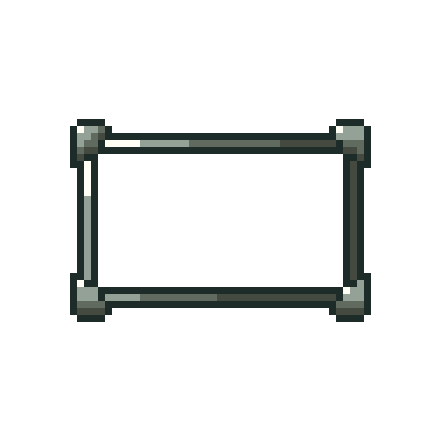
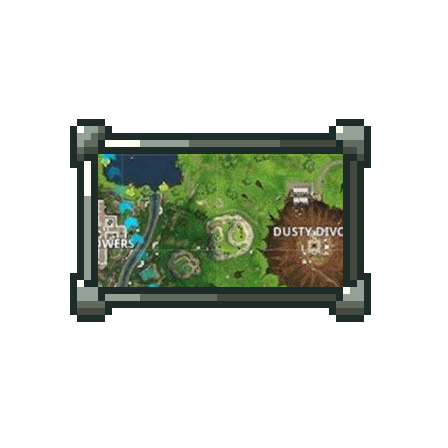
añadidos sprites/4

Changed region(s): [[0.2188, 0.3438, 0.7812, 0.6562]]

diff --git a/DSI-FinalProyect/GameWindows.xaml b/DSI-FinalProyect/GameWindows.xaml
@@ -32,16 +32,26 @@
                         <RowDefinition Height="1*"/>
                     </Grid.RowDefinitions>
                     <Grid.ColumnDefinitions>
-                        <ColumnDefinition Width="1*"/>
-                        <ColumnDefinition Width="3*"/>
+                        <ColumnDefinition Width="0.5*"/>
+                        <ColumnDefinition Width="0.5*"/>
+                        <ColumnDefinition Width="0.5*"/>
+                        <ColumnDefinition Width="0.5*"/>
+                        <ColumnDefinition Width="0.5*"/>
+                        <ColumnDefinition Width="0.5*"/>
                     </Grid.ColumnDefinitions>
 
-                    <Image Source="Assets/StoreLogo.png" Grid.Row="0" Width="100" Height="100" />
-                    <Image Source="Assets/StoreLogo.png" Grid.Row="2" Width="100" Height="100" />
+                    <Image Source="Assets/Interfaz_DSI/Heart.png" Grid.Row="0" Width="150" Height="150" HorizontalAlignment="Center" VerticalAlignment="Center" />
+                    <Image Source="Assets/Interfaz_DSI/Heart.png" Grid.Row="0" Grid.Column="1" Width="150" Height="150" HorizontalAlignment="Center" VerticalAlignment="Center" />
+                    <Image Source="Assets/Interfaz_DSI/Heart.png" Grid.Row="0" Grid.Column="2" Width="150" Height="150" HorizontalAlignment="Center" VerticalAlignment="Center" />
+                    <Image Source="Assets/Interfaz_DSI/Heart.png" Grid.Row="0" Grid.Column="3" Width="150" Height="150" HorizontalAlignment="Center" VerticalAlignment="Center" />
+                    <Image Source="Assets/Interfaz_DSI/Heart.png" Grid.Row="0" Grid.Column="4" Width="150" Height="150" HorizontalAlignment="Center" VerticalAlignment="Center" />
+                    <Image Source="Assets/Interfaz_DSI/Heart.png" Grid.Row="0" Grid.Column="5" Width="150" Height="150" HorizontalAlignment="Center" VerticalAlignment="Center" />
+
+                    <Image Source="Assets/Interfaz_DSI/Bullet.png" HorizontalAlignment="Center" VerticalAlignment="Center" Grid.Row="2" Width="150" Height="150" />
                     <TextBlock x:Name="nBalas" Grid.Row="3" Text="Balas" Foreground="White" HorizontalAlignment="Center" FontSize="30"/>
                 </Grid>
                 <!-- Grid Cruceta-->
-                    <Grid  x:Name="GridController" Margin="-50,30,0,50" Height="300" Width="300" VerticalAlignment="Bottom">
+                    <Grid  x:Name="GridController" Margin="-50,30,0,50" Height="300" Width="300" VerticalAlignment="Bottom" Visibility="Collapsed">
                         <Grid.RowDefinitions>
                             <RowDefinition Height="2*"/>
                             <RowDefinition Height="0.5*" />
@@ -80,15 +90,15 @@
 
 
                     </Grid>
-                    <!--Mapa-->
-                <Image Source="Assets/StoreLogo.png" x:Name="Map" Margin="50" HorizontalAlignment="Right" Grid.Column="2" VerticalAlignment="Top" Width="250" Height="250"/>
-                <Image Source="Assets/StoreLogo.png" x:Name="Frame" Margin="30" HorizontalAlignment="Right" Grid.Column="2" VerticalAlignment="Top" Width="300" Height="300"/>
+                <Image  Margin="-50,30,0,50" Height="300" Width="300" VerticalAlignment="Bottom" Source="Assets/Interfaz_DSI/Joystick.png"/>
+                <!--Mapa-->
+                <Image Source="Assets/Interfaz_DSI/MapFrame.png" x:Name="Frame" Margin="30" HorizontalAlignment="Right" Grid.Column="2" VerticalAlignment="Top" Width="300" Height="300"/>
 
                 
 
                 <!--Boton disparo-->
                     <HyperlinkButton Grid.Column="2" Width="150" Height="150" VerticalAlignment="Bottom" Margin="100" HorizontalAlignment="Right"  x:Name="Shoot_Button" Click="Shoot_Button_Click">
-                        <Image   Source="Assets/StoreLogo.png">
+                        <Image HorizontalAlignment="Center" VerticalAlignment="Center" Width="200" Height="200" Source="Assets/Interfaz_DSI/ShootButton.png">
 
                         </Image>
                     </HyperlinkButton>

diff --git a/DSI-FinalProyect/Settings.xaml b/DSI-FinalProyect/Settings.xaml
@@ -96,8 +96,8 @@
                     <TextBlock Text="Borrar cuenta" Width="300" Height="80" FontSize="30" HorizontalAlignment="Left" Margin="80,0,0,0"/>
 
                 </StackPanel>
-                <TextBlock  Text="EXP" FontSize="30" x:Name="EXP_Text" HorizontalAlignment="Right" Width="150" Height="80" Margin="90"/>
-                <Image Source="Assets/StoreLogo.png" HorizontalAlignment="Right" VerticalAlignment="Top" Width="300" Height="300" Margin="70" />
+                <TextBlock  Text="EXP" FontSize="30" x:Name="EXP_Text" HorizontalAlignment="Right" Width="150" Height="40" Margin="100"/>
+                <Image Source="Assets/Interfaz_DSI/SpriteUsuario.png" HorizontalAlignment="Right" VerticalAlignment="Top" Width="300" Height="300" Margin="70" />
                 <AppBarButton Icon="Edit" HorizontalAlignment="Right"/>
             </Grid>
         </Grid>

diff --git a/DSI-FinalProyect/MainPage.xaml.cs b/DSI-FinalProyect/MainPage.xaml.cs
@@ -40,7 +40,8 @@ namespace DSi_FinalProyect
 
         private void Button_Click_2(object sender, RoutedEventArgs e)
         {
-         //Acceso directo a info del perfil 
+            
+            this.Frame.Navigate(typeof(Settings));
         }
 
         private void Button_Click_4(object sender, RoutedEventArgs e)
@@ -62,7 +63,8 @@ namespace DSi_FinalProyect
 
         private void Button_Click_3(object sender, RoutedEventArgs e)
         {
-            //Acceso al tutorial
+            //Acceso al tutorial (no funcional)
+            this.Frame.Navigate(typeof(GameWindows));
         }
     }
 }
